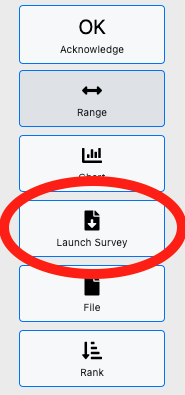
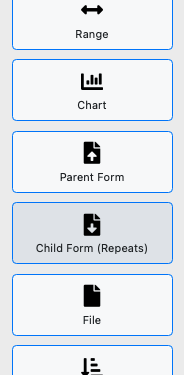
Brought launch surveys up to date

diff --git a/launch-survey-from-survey.rst b/launch-survey-from-survey.rst
@@ -11,18 +11,20 @@ within the first, complete it, and then be returned automatically to your locati
 
 .. note::
 
-  This capability is similar to entering a subform using **begin repeat** (:ref:`xls-repeats`). However sub forms are included within the main
+  This capability is similar to entering a subform using **begin repeat** (:ref:`xls-repeats`). However subforms are included within the main
   survey whereas here we are starting a completely different survey.
 
 Use cases
 ---------
 
-* Create a survey whose sole purpose is to decide which survey needs to be completed.  In this case you can use either the "Parent Form"
-  or the "Child Form" and the **type** of the question that will launch the survey.  These types are only important when you want to link
+* Create a survey whose sole purpose is to decide which survey needs to be completed. In this case you can use either the "Parent Form"
+  or the "Child Form" as the question **type** that will launch the survey. These types are only important when you want to link
   data between the two surveys for analysis.
-* Launch a form to enter details on an item that is referenced by your current form.  For example you to record details of a meeting and in
-  that meeting launch a separate "action items" survey to record details on each action item.  In your analysis dashboard you will still want
+* Launch a form to enter details on an item that is referenced by your current form. For example fill in a form to record details of a meeting and in
+  that meeting launch a separate "action items" survey as a **Child Form** to record details on each action item. In your analysis dashboard you will still want
   to view action items grouped by meeting as well as viewing details on all the action items so they need to be linked.
+* Launch a form to enter details on an item that will reference your current form. For example to fill in details on a class attended by a student when you are
+  entering the student details. See :ref:`launch-survey-tutorial` for a step-by-step example.
 
 Linking data between the surveys
 --------------------------------
@@ -40,22 +42,14 @@ This is done by specifying a question in one of the surveys that will hold a key
   When launching a new survey you can choose that it be a child or a parent of the first survey. If you are not linking the data between the
   surveys then it does not matter which one you choose.
 
-  The following examples are going to be based on the **parent** survey being a class in a school and the **child** survey being a pupil
-  in that school.
+Using the Online Editor to configure survey launching
+-----------------------------------------------------
 
-Example 1 - Launch the Class Survey (Parent) from a Pupil Survey (Child)
-+++++++++++++++++++++++++++++++++++++++++++++++++++++++++++++++++++++++++
-
-Let's assume you are completing a survey to get details on a pupil and you want to note the class that they are attending. However that class is not
-currently available to be picked. Hence the class survey is launched as a **parent form/survey** and you specify that the key created by the
-class survey should be stored in the **class** question of the **Pupil survey**.
-
-The :ref:`online-editor` offers good support for launching surveys. So first create the Pupil survey using the online editor
-then add a Parent Survey question type.
+The :ref:`online-editor` offers good support for launching surveys.
 
 .. figure::  _images/launch1.png
    :align:   center
-   :width:   300px
+   :width:   100px
    :alt:     Select the Parent Survey / Form Question Type
 
    Select the Parent Survey / Form Question Type
@@ -69,18 +63,9 @@ You will then be asked to add parameters.
 
    Set the parameters
 
-#.  Select the survey to launch, in this example it's the **class** survey.
-#.  Select the question in the child survey in which to store the key. Optional, but since we want to link the pupil to the class
-    we are going to do this. This question has to accept an answer that is of type text. As well as text questions, select_one,
-    calculates, barcodes all store their data as text. The online editor will present the valid questions that you can select.
-#.  Select Auto Play if you want the class survey to be launched without the user having to press a button.
-
-Example 2 - Launch a Child Survey
-+++++++++++++++++++++++++++++++++
-
-Alternatively you may be completing a survey on classes and realise that you have not registered a child that you want to enroll in the class.
-Follow the same steps as for creating the parent survey but this time select the **child survey / form** question type. When you are asked
-where you want to place the key, the questions shown will be from the child survey.
+#.  Select Auto Play if you want the new survey to be launched without the user having to press a button.
+#.  Select the survey to be launched.
+#.  Optionally specify the question that will store the key of the parent form.
 
 Making use of linkages between Surveys
 ++++++++++++++++++++++++++++++++++++++
@@ -88,25 +73,25 @@ Making use of linkages between Surveys
 If you are analysing your data in a Business Intelligence tool then you can join the data using the key question. Alternatively in the console
 you can **drill down** from parent survey to child survey or from child survey up to parent survey to see the connected data.
 
-Hiding the launched Surveys on the phone
+For example if you store the key of the meeting record in a question called **meeting_key** in the action form then you can retrieve combined data in your
+dashboard using queries like::
+
+    select m.name, a.name, a.assigned from meeting m, action a where m._thread = a.meeting_key;
+
+Hiding the launched surveys on the phone
 ----------------------------------------
 
-Commonly you will not want the user to start up a "launched" survey independently. You can hide launched surveys
+Often you will not want the user to start up a "launched" survey independently. You can hide launched surveys
 so that they are not directly visible in FieldTask. To do this go to the survey settings and select "Hide on device".
 
 Passing data to the launched survey
 -----------------------------------
 
-Initial Data
-++++++++++++
-
-Available with Smap Server 20.09+
-
 You can specify the initial data that the launched survey receives in the "initial" parameter. For example::
 
   initial=name:${qname},vegetable:parsnip
 
-The format is 1 or more comma separated value specifications consisting of:
+The format is 1 or more comma-separated value specifications consisting of:
 
 * The name of the question in the launched form that is going to receive the default value
 * A colon separator
@@ -118,12 +103,12 @@ launching form. In the above example the question called "name" in the launched 
 
 .. note::
 
-  When getting initial data from the launching form you can only refer to data in its top level form. That is not within a repeating group.
+  When getting initial data from the launching form you can only refer to data in its top-level form. That is not within a repeating group.
 
 Update an existing Record
-+++++++++++++++++++++++++
+-------------------------
 
-Available with Smap Server 24.01+. Only available with Web Forms.
+Only available with Web Forms.
 
 You can specify the instance of the record to be updated as a parameter called "instance"::
 
@@ -131,9 +116,4 @@ You can specify the instance of the record to be updated as a parameter called "
 
 You can pass initial data, as described above, which will override the data pulled from the instance.
 
-`Video showing how to edit an existing record from webforms <https://youtu.be/1POwyhSK5BI>`_
-
-Tutorial - Launching a Parent Survey
-------------------------------------
-
-See :ref:`launch-survey-tutorial` for a step-by-step example.
+`Video showing how to edit an existing record from Web Forms <https://youtu.be/1POwyhSK5BI>`_

diff --git a/tips-launch-survey-tutorial.rst b/tips-launch-survey-tutorial.rst
@@ -4,12 +4,14 @@ Tutorial - Launching a Parent Survey
 ====================================
 
 In this example the user will be filling out details on a pupil. When it comes to adding the class, if the class does not exist, then
-they will launch the class form to add it and also to automatically add the pupil as being a member of that class.
+they will launch the class form to add it and also to automatically add the pupil as being a member of that class.  All of these
+instructions assume that you are using the online editor.
 
 1. First create a survey called "Class". Add some questions including a text question called class_id. Edit the keys for this survey
-   and set the key to "${class_id}".
+   and set the key to "${class_id}" and the **Key Policy** to "merge".  **Keys**, for a survey, can be specified in the online editor by selecting the menu **Tools** and then
+   **Bundle and Case Management** and then selecting the **Keys** tab.
 
-2. Using the online editor create a survey called "Pupil". Add some questions that you might want to record about the pupil such as their
+2. Create a survey called "Pupil". Add some questions that you might want to record about the pupil such as their
    name.
 
 3. Now in the Pupil form we are going to select the class attended by the pupil. Add a question called "class" of type select_one and specify that it
@@ -21,12 +23,19 @@ they will launch the class form to add it and also to automatically add the pupi
   The online editor will guide you through getting a choice list from another survey. To do this edit the appearance for the select question
   and select the **search** tab.
 
-4. Create a question of type select_one with a label "Is a new class needed?".
+.. figure::  _images/launch-2-1.png
+   :align:   center
+   :width:   400px
+   :alt:     A dialog configured to get a list of class ids from a survey called "Class"
 
-5. Add a question of type "parent_form". Make it relevant only if a new class is needed. Edit the parameters to specify:
+   Specifying how to get the list of classes from the class survey
 
-*  Survey to launch: Set to "Class"
-*  Question to store the returned key: Set this to the question in the Pupil form also called "class".
+4. Create a question of type select_one and two choices "Yes" and "No", with a label "Is a new class needed?".
+
+5. Add a question of type **parent_form**. Make it relevant only if a new class is needed. Edit the parameters to specify:
+
+  *  Survey to launch: Set to "Class"
+  *  Question to store the returned key: Set this to the question in the Pupil form also called "class".
 
 Sample surveys as described above can be downloaded from:
 
@@ -65,10 +74,3 @@ Testing
    :width:   600px
    :alt:     Pupil Data
 
-   Pupil Data
-
-.. note::
-
-  The Pupil data contains a value for the question that launched the class form. This question was called "launch" in the
-  example survey. The value in this question is used by the Smap system during the linking of
-  the data in the two surveys and it can be ignored for analysis.
